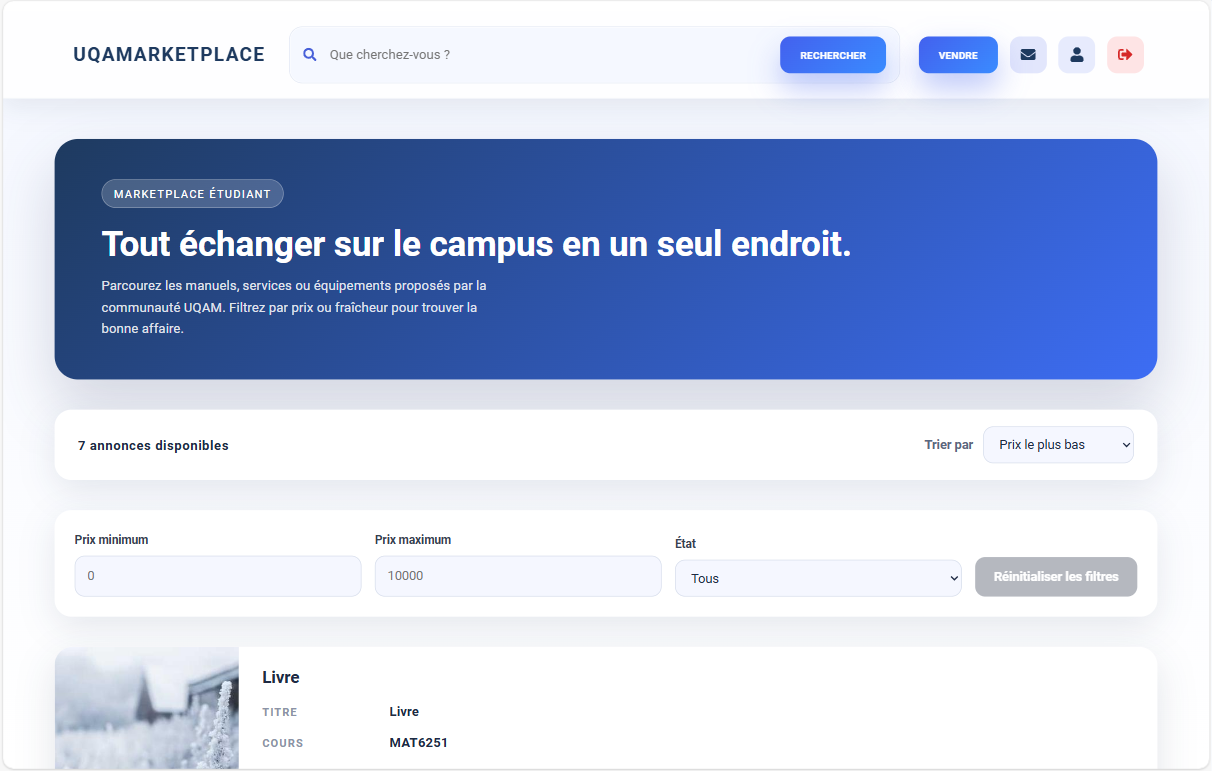
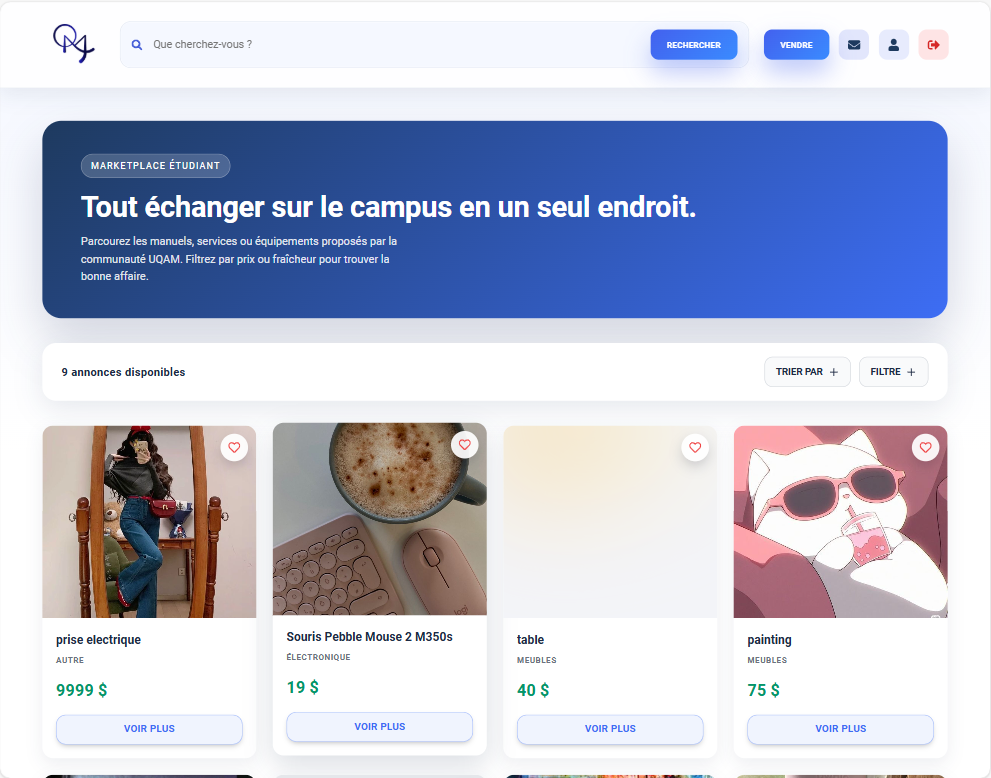
update some of the images

diff --git a/src/pages/UQAMarketplace.tsx b/src/pages/UQAMarketplace.tsx
@@ -2,10 +2,10 @@ import "./UQAMarketplace.css";
 import bg from "../assets/backgroundcasestudy.jpg";
 
 import heroMockup from "../assets/casestudy1.png"; // Main hero showcase
-import listingsBrowse from "../assets/portfolio.png"; // Listings page
-import sellForm from "../assets/casestudy1.png"; // Sell form screenshot
-import messaging from "../assets/portfolio.png"; // Messaging interface
-import userProfile from "../assets/casestudy1.png"; // Profile page
+import listingsBrowse from "../assets/case1-listingpage0.png"; // Listings page
+import sellForm from "../assets/case1-SellingPage.png"; // Sell form screenshot
+import messaging from "../assets/case1-messagepage.png"; // Messaging interface
+import userProfile from "../assets/case1-userprofilepage.png"; // Profile page
 import wireframeSketch from "../assets/portfolio.png"; // Your wireframes/sketches
 import beforeAfter from "../assets/casestudy1.png"; // Design iteration example
 import designSystem from "../assets/portfolio.png"; // Colors, typography, components
